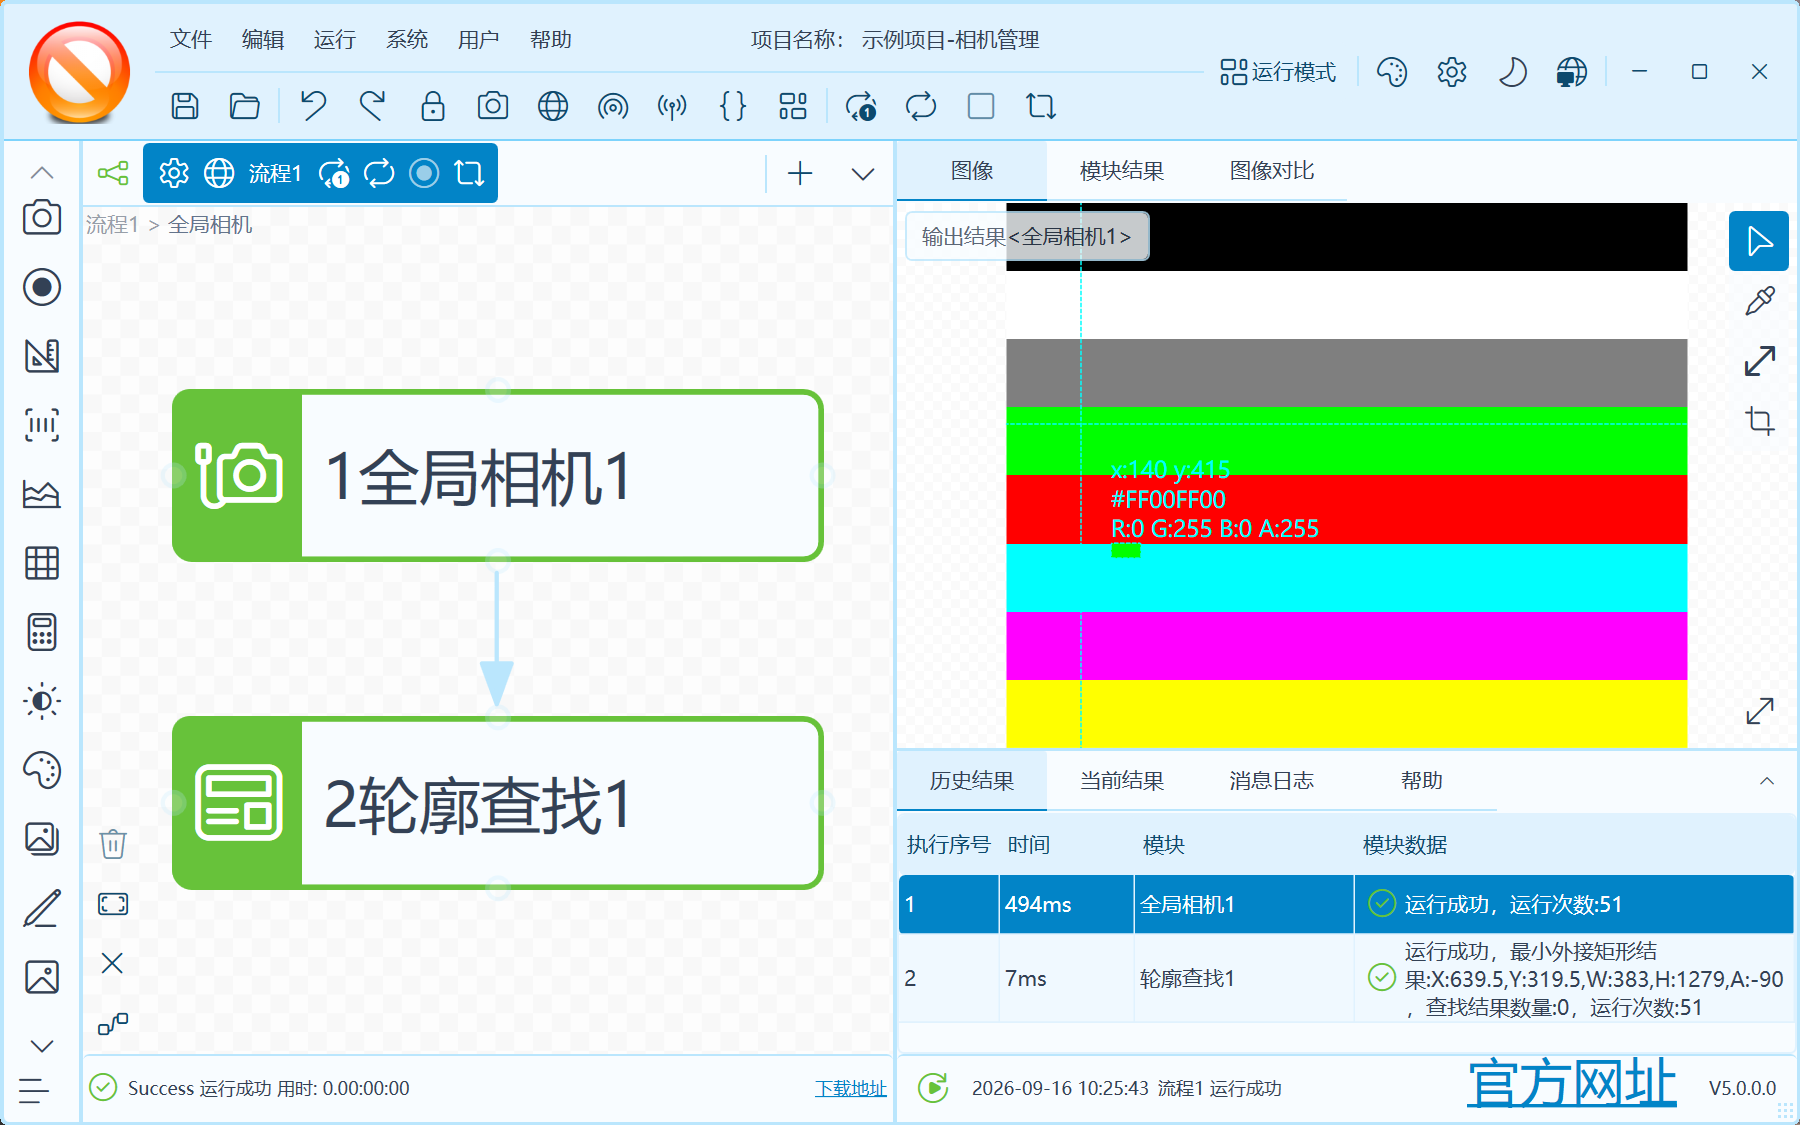
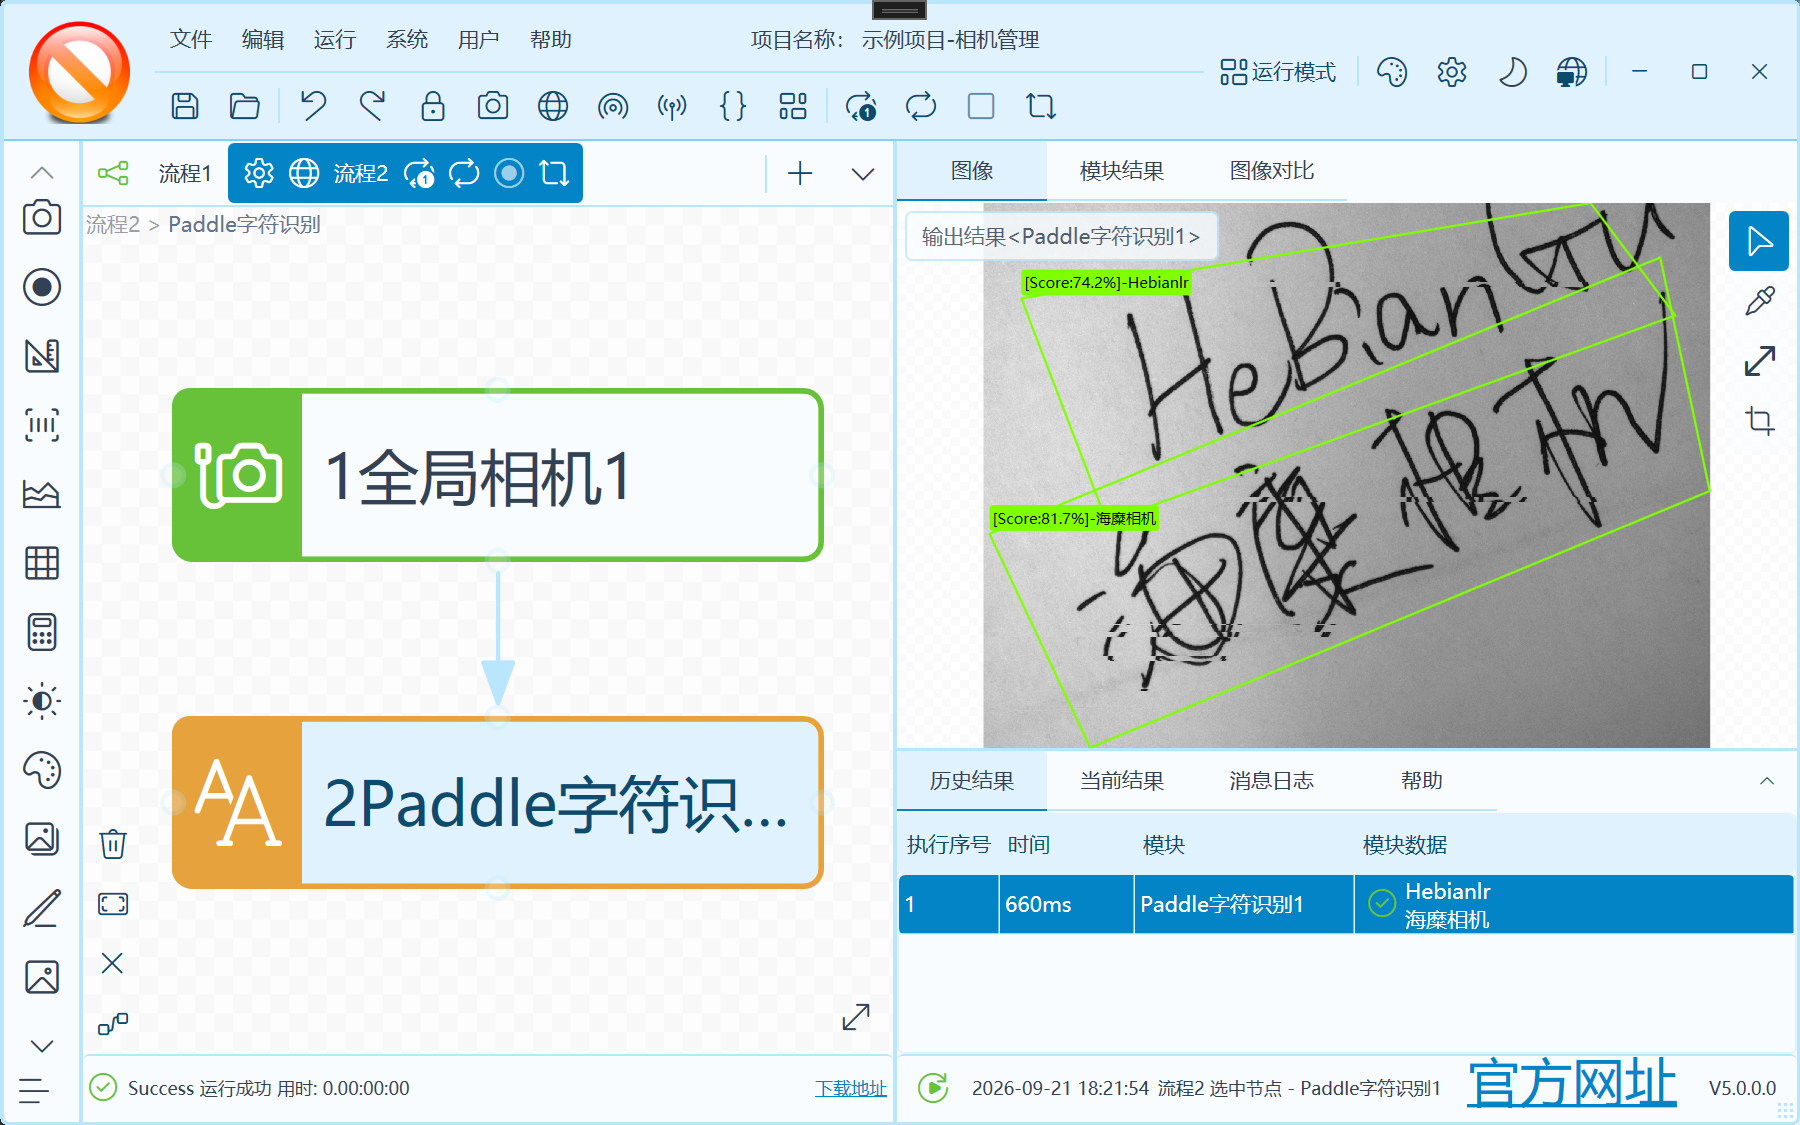
+

diff --git a/docs/Home/visionmaster-releases.html b/docs/Home/visionmaster-releases.html
@@ -86,7 +86,7 @@
               <li>覆盖采集、定位、测量、识别、缺陷检测、标定、运算、颜色处理、图像处理、逻辑工具、通信、ONNX 和 YOLO 等 20 个功能分组。</li>
               <li>新增发行历史说明页和第三方依赖项页面，完善许可、发行说明与插件信息展示。</li>
             </ul>
-            <div class="release-links"><a class="button secondary" href="https://github.com/HeBianGu/WPF-VisionMaster-Doc/releases/download/v5.0.0/WPF-VisionMaster-5.0.0-x64.msi" target="_blank" rel="noopener">下载试用安装包</a><a class="button secondary" href="https://github.com/HeBianGu/WPF-VisionMaster-Doc/releases/tag/v5.0.0" target="_blank" rel="noopener">详细发布说明</a><a class="button secondary" href="https://blog.csdn.net/u010975589/article/details/165879297" target="_blank" rel="noopener">5.0 详细说明</a><a class="button secondary" href="https://www.bilibili.com/video/BV1RzeF6LEJy" target="_blank" rel="noopener">5.0 视频介绍</a></div>
+            <div class="release-links"><a class="button secondary" href="https://github.com/HeBianGu/WPF-VisionMaster-Doc/releases/download/v5.0.0/WPF-VisionMaster-5.0.0-x64.msi" target="_blank" rel="noopener">下载试用安装包</a><a class="button secondary" href="https://github.com/HeBianGu/WPF-VisionMaster-Doc/releases#release-v5.0.0" target="_blank" rel="noopener">详细发布说明</a><a class="button secondary" href="https://blog.csdn.net/u010975589/article/details/165879297" target="_blank" rel="noopener">5.0 详细说明</a><a class="button secondary" href="https://www.bilibili.com/video/BV1RzeF6LEJy" target="_blank" rel="noopener">5.0 视频介绍</a></div>
           </article>
 
           <article id="v4" class="release-card">
@@ -107,7 +107,7 @@
             <ul><li>新增 Shi-Tomasi、Harris 角点查找，以及前景反转矫正、前景信息提取与应用矫正节点。</li><li>线线测量支持夹角测量；圆和线段测量支持多种过滤规则。</li><li>新增轮廓匹配、特征匹配；像素匹配与颜色匹配完成重命名和编辑体验优化。</li></ul>
             <h4>其他优化</h4>
             <ul><li>OpenCvSharp4 升级至 4.13.0.20260222。</li><li>支持流程循环执行、流程菜单显示控制、九点标定、运行全部与停止全部。</li><li>优化识别结果显示、颜色选择和部分模块的内存泄漏问题。</li></ul>
-            <div class="release-links"><a class="button secondary" href="https://github.com/HeBianGu/WPF-VisionMaster-Doc/releases/download/v4.0.0/WPF-VisionMaster-4.0.0-x64.msi" target="_blank" rel="noopener">下载试用安装包</a><a class="button secondary" href="https://github.com/HeBianGu/WPF-VisionMaster-Doc/releases/tag/v4.0.0" target="_blank" rel="noopener">详细发布说明</a><a class="button secondary" href="https://blog.csdn.net/u010975589/article/details/159284364" target="_blank" rel="noopener">4.0 详细说明</a><a class="button secondary" href="https://www.bilibili.com/video/BV1z8cXziEBm" target="_blank" rel="noopener">4.0 视频介绍</a></div>
+            <div class="release-links"><a class="button secondary" href="https://github.com/HeBianGu/WPF-VisionMaster-Doc/releases/download/v4.0.0/WPF-VisionMaster-4.0.0-x64.msi" target="_blank" rel="noopener">下载试用安装包</a><a class="button secondary" href="https://github.com/HeBianGu/WPF-VisionMaster-Doc/releases#release-v4.0.0" target="_blank" rel="noopener">详细发布说明</a><a class="button secondary" href="https://blog.csdn.net/u010975589/article/details/159284364" target="_blank" rel="noopener">4.0 详细说明</a><a class="button secondary" href="https://www.bilibili.com/video/BV1z8cXziEBm" target="_blank" rel="noopener">4.0 视频介绍</a></div>
           </article>
 
           <article id="v3" class="release-card">
@@ -122,7 +122,7 @@
               <li>新增运行/开发双许可控制、节点替换、圆查找、逻辑循环节点、颜色吸管与长度卡尺工具。</li>
               <li>优化 ROI 复用、矢量化识别结果显示、像素块渲染、多前驱等待和参数表达式缓存。</li>
             </ul>
-            <div class="release-links"><a class="button secondary" href="https://github.com/HeBianGu/WPF-VisionMaster-Doc/releases/download/v3.0.0/WPF-VisionMaster-3.0.0-x64.msi" target="_blank" rel="noopener">下载试用安装包</a><a class="button secondary" href="https://github.com/HeBianGu/WPF-VisionMaster-Doc/releases/tag/v3.0.0" target="_blank" rel="noopener">详细发布说明</a><a class="button secondary" href="https://blog.csdn.net/u010975589/article/details/152267857" target="_blank" rel="noopener">3.0 详细说明</a><a class="button secondary" href="https://www.bilibili.com/video/BV19wySBgER7" target="_blank" rel="noopener">3.0 视频介绍</a></div>
+            <div class="release-links"><a class="button secondary" href="https://github.com/HeBianGu/WPF-VisionMaster-Doc/releases/download/v3.0.0/WPF-VisionMaster-3.0.0-x64.msi" target="_blank" rel="noopener">下载试用安装包</a><a class="button secondary" href="https://github.com/HeBianGu/WPF-VisionMaster-Doc/releases#release-v3.0.0" target="_blank" rel="noopener">详细发布说明</a><a class="button secondary" href="https://blog.csdn.net/u010975589/article/details/152267857" target="_blank" rel="noopener">3.0 详细说明</a><a class="button secondary" href="https://www.bilibili.com/video/BV19wySBgER7" target="_blank" rel="noopener">3.0 视频介绍</a></div>
           </article>
 
           <article id="v2" class="release-card">
@@ -136,7 +136,7 @@
               <li>新增多组图像资源、当前模块结果与 NG、OK、运行、错误、成功等结果输出节点。</li>
               <li>升级到 .NET 8 长期支持版本。</li>
             </ul>
-            <div class="release-links"><a class="button secondary" href="https://github.com/HeBianGu/WPF-VisionMaster-Doc/releases/download/v2.0.0/WPF-VisionMaster-2.0.0-x64.msi" target="_blank" rel="noopener">下载试用安装包</a><a class="button secondary" href="https://github.com/HeBianGu/WPF-VisionMaster-Doc/releases/tag/v2.0.0" target="_blank" rel="noopener">详细发布说明</a><a class="button secondary" href="https://blog.csdn.net/u010975589/article/details/149283086" target="_blank" rel="noopener">2.0 详细说明</a><a class="button secondary" href="https://www.bilibili.com/video/BV1oeMXzEEZX" target="_blank" rel="noopener">2.0 视频介绍</a></div>
+            <div class="release-links"><a class="button secondary" href="https://github.com/HeBianGu/WPF-VisionMaster-Doc/releases/download/v2.0.0/WPF-VisionMaster-2.0.0-x64.msi" target="_blank" rel="noopener">下载试用安装包</a><a class="button secondary" href="https://github.com/HeBianGu/WPF-VisionMaster-Doc/releases#release-v2.0.0" target="_blank" rel="noopener">详细发布说明</a><a class="button secondary" href="https://blog.csdn.net/u010975589/article/details/149283086" target="_blank" rel="noopener">2.0 详细说明</a><a class="button secondary" href="https://www.bilibili.com/video/BV1oeMXzEEZX" target="_blank" rel="noopener">2.0 视频介绍</a></div>
           </article>
 
           <article id="v1" class="release-card">
@@ -149,7 +149,7 @@
               <li>支持自定义视觉处理算法节点扩展。</li>
               <li>支持多工程、示例模板、拖拽式流程设计、流程模板保存调用、主题定制和统一系统配置。</li>
             </ul>
-            <div class="release-links"><a class="button secondary" href="https://github.com/HeBianGu/WPF-VisionMaster-Doc/releases/download/v1.0.0/WPF-VisionMaster-1.0.0-x64.msi" target="_blank" rel="noopener">下载试用安装包</a><a class="button secondary" href="https://github.com/HeBianGu/WPF-VisionMaster-Doc/releases/tag/v1.0.0" target="_blank" rel="noopener">详细发布说明</a><a class="button secondary" href="https://blog.csdn.net/u010975589/article/details/147283703" target="_blank" rel="noopener">1.0 详细说明</a><a class="button secondary" href="https://www.bilibili.com/video/BV1smd5YYEoh/" target="_blank" rel="noopener">1.0 视频介绍</a></div>
+            <div class="release-links"><a class="button secondary" href="https://github.com/HeBianGu/WPF-VisionMaster-Doc/releases/download/v1.0.0/WPF-VisionMaster-1.0.0-x64.msi" target="_blank" rel="noopener">下载试用安装包</a><a class="button secondary" href="https://github.com/HeBianGu/WPF-VisionMaster-Doc/releases#release-v1.0.0" target="_blank" rel="noopener">详细发布说明</a><a class="button secondary" href="https://blog.csdn.net/u010975589/article/details/147283703" target="_blank" rel="noopener">1.0 详细说明</a><a class="button secondary" href="https://www.bilibili.com/video/BV1smd5YYEoh/" target="_blank" rel="noopener">1.0 视频介绍</a></div>
           </article>
         </div>
       </div>

diff --git a/docs/Home/index.html b/docs/Home/index.html
@@ -279,6 +279,14 @@
             <img src="通信管理.png" alt="WPF-VisionMaster 通信管理界面" loading="lazy">
             <figcaption>通信管理</figcaption>
         </figure>
+        <figure class="top-carousel-slide">
+            <img src="检测报表.png" alt="WPF-VisionMaster 检测报表界面" loading="lazy">
+            <figcaption>检测报表</figcaption>
+        </figure>
+        <figure class="top-carousel-slide">
+            <img src="检测报告.png" alt="WPF-VisionMaster 检测报告界面" loading="lazy">
+            <figcaption>检测报告</figcaption>
+        </figure>
         <button class="top-carousel-arrow previous" type="button" aria-label="显示上一张图片">&#10094;</button>
         <button class="top-carousel-arrow next" type="button" aria-label="显示下一张图片">&#10095;</button>
         <div class="top-carousel-indicators" aria-label="轮播图片选择">
@@ -290,6 +298,8 @@
             <button class="top-carousel-indicator" type="button" aria-label="显示第 6 张图片"></button>
             <button class="top-carousel-indicator" type="button" aria-label="显示第 7 张图片"></button>
             <button class="top-carousel-indicator" type="button" aria-label="显示第 8 张图片"></button>
+            <button class="top-carousel-indicator" type="button" aria-label="显示第 9 张图片"></button>
+            <button class="top-carousel-indicator" type="button" aria-label="显示第 10 张图片"></button>
         </div>
     </section>
 
